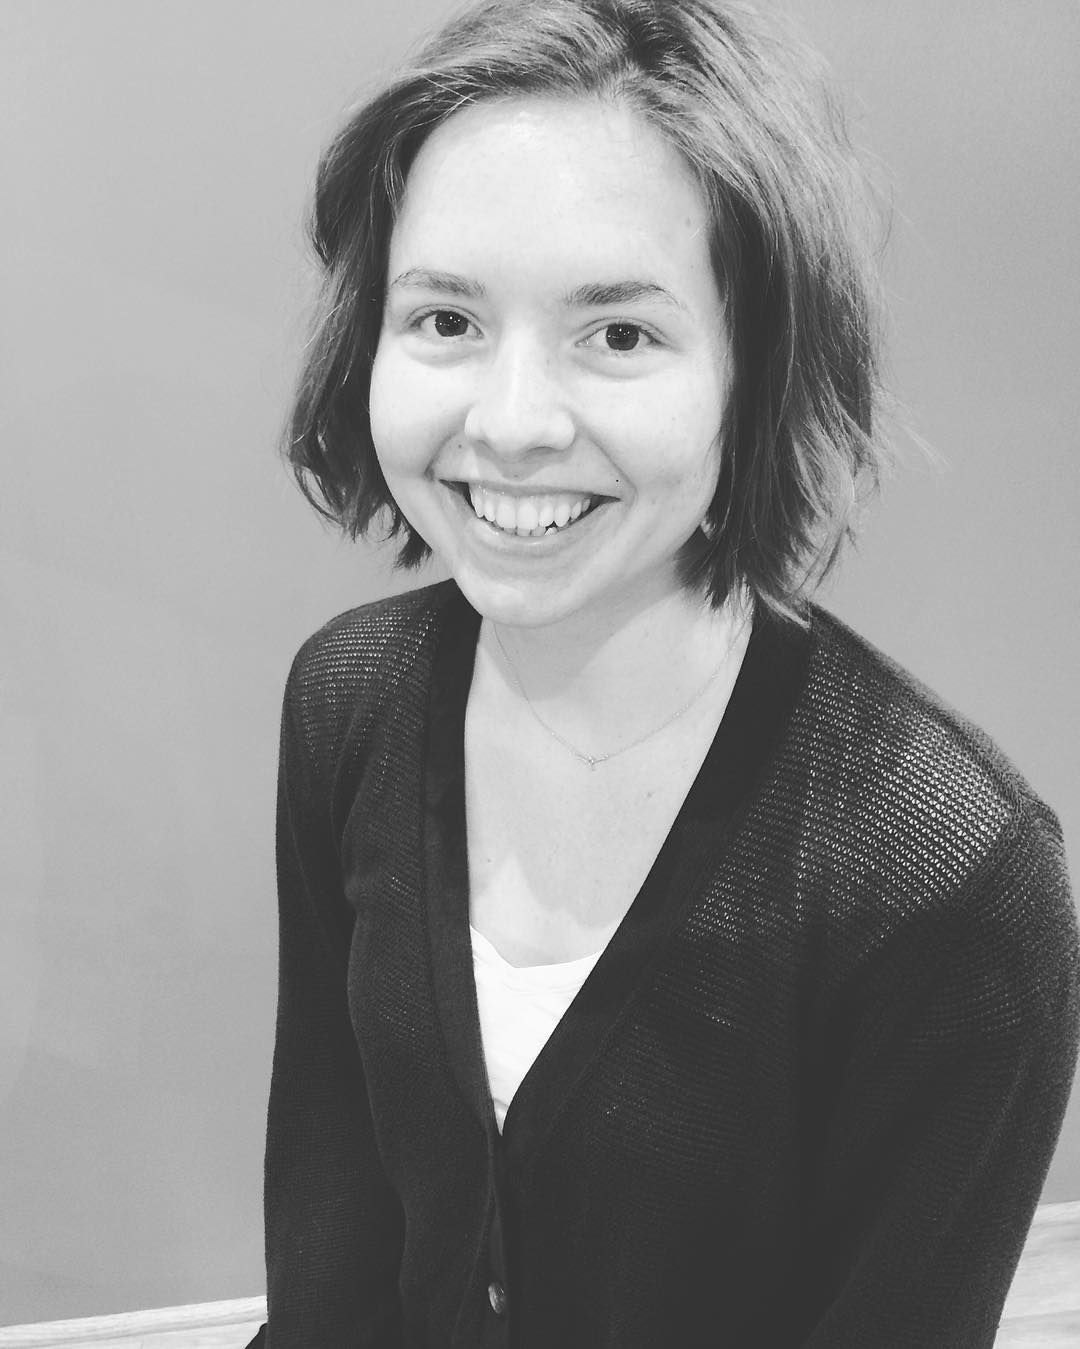
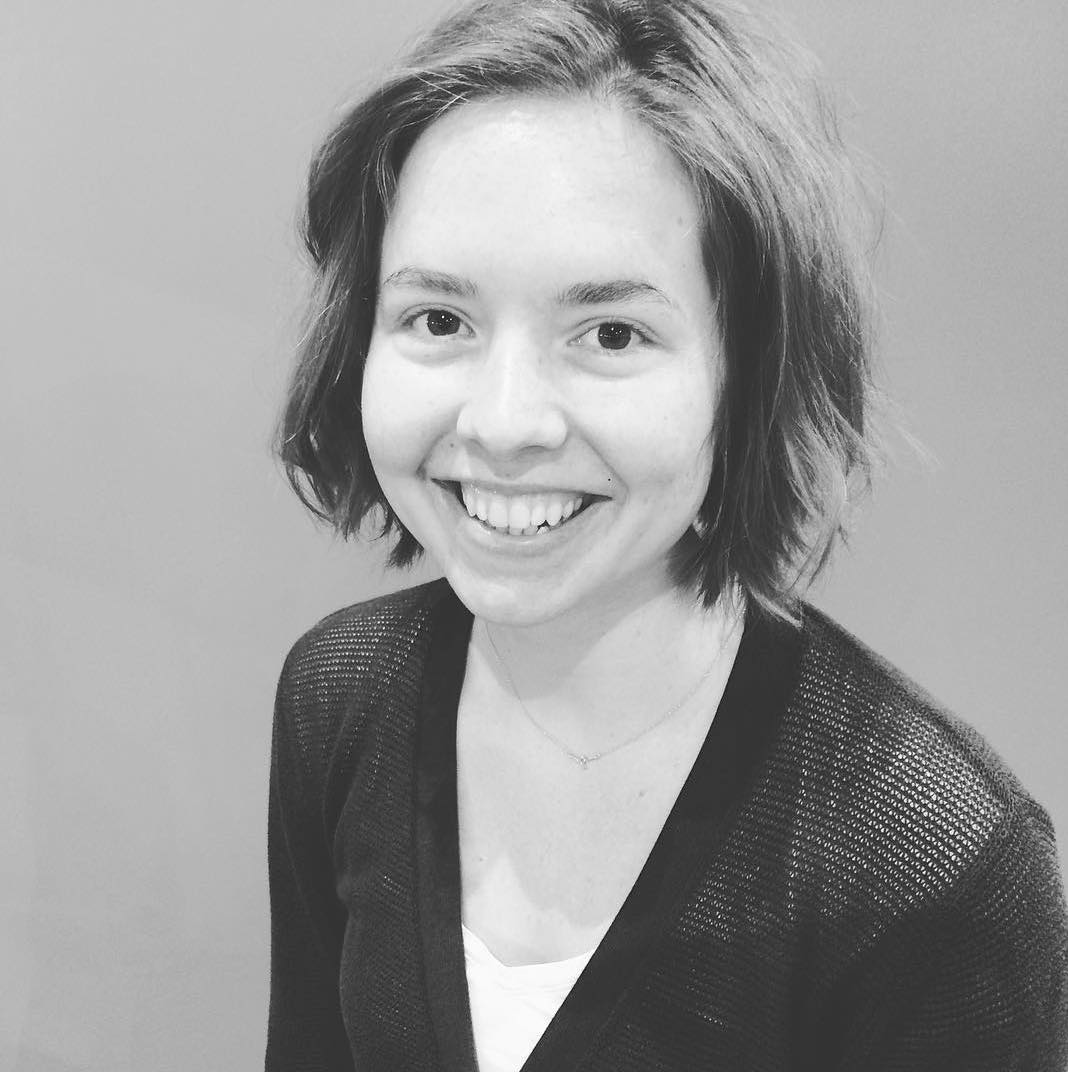
updated team photos home page

Changed region(s): [[0.2472, 0.0, 1.0, 1.0], [0.0, 0.8004, 0.2781, 1.0], [0.6489, 0.8004, 0.7416, 0.8619]]

diff --git a/src/styles/partials/_home.scss b/src/styles/partials/_home.scss
@@ -25,8 +25,8 @@
         outline: none;
 
         &:hover {
-          background: darken($pop, 10%);
-          cursor: pointer;
+            background: darken($pop, 10%);
+            cursor: pointer;
         }
     }
 
@@ -43,23 +43,23 @@
     }
 
     .aboutBtn {
-      height: 50px;
-      border: none;
-      background: $pop;
-      margin: 0 0 20px 0;
-      border-radius: 5px;
-      padding: 10px;
-      width: 200px;
-      font-family: $raleway;
-      font-size: 1em;
-      font-weight: bold;
-      text-transform: uppercase;
-      outline: none;
+        height: 50px;
+        border: none;
+        background: $pop;
+        margin: 0 0 20px;
+        border-radius: 5px;
+        padding: 10px;
+        width: 200px;
+        font-family: $raleway;
+        font-size: 1em;
+        font-weight: bold;
+        text-transform: uppercase;
+        outline: none;
 
-      &:hover {
-        background: darken($pop, 10%);
-        cursor: pointer;
-      }
+        &:hover {
+            background: darken($pop, 10%);
+            cursor: pointer;
+        }
     }
 
     .continueBtnContainer {

diff --git a/src/templates/home.html b/src/templates/home.html
@@ -37,17 +37,17 @@
                     <p>Front-End</p>
                 </div>
                 <div class="member">
-                    <img class="profile" src="assets/ktHeadshot.png" />
+                    <img class="profile" src="assets/ktHeadshot.jpg" />
                     <p class="memberName">Kristine</p>
                     <p>Back-End</p>
                 </div>
                 <div class="member">
-                    <img class="profile" src="assets/thHeadshot.png" />
+                    <img class="profile" src="assets/thHeadshot.jpg" />
                     <p class="memberName">Tim</p>
                     <p>Back-End</p>
                 </div>
                 <div class="member">
-                    <img class="profile" src="assets/dgHeadshot.png" />
+                    <img class="profile" src="assets/dgHeadshot.jpg" />
                     <p class="memberName">Dan</p>
                     <p>Back-End</p>
                 </div>

diff --git a/src/styles/main.css b/src/styles/main.css
@@ -1848,7 +1848,7 @@ header {
     height: 50px;
     border: none;
     background: #AAEFDF;
-    margin: 0 0 20px 0;
+    margin: 0 0 20px;
     border-radius: 5px;
     padding: 10px;
     width: 200px;
